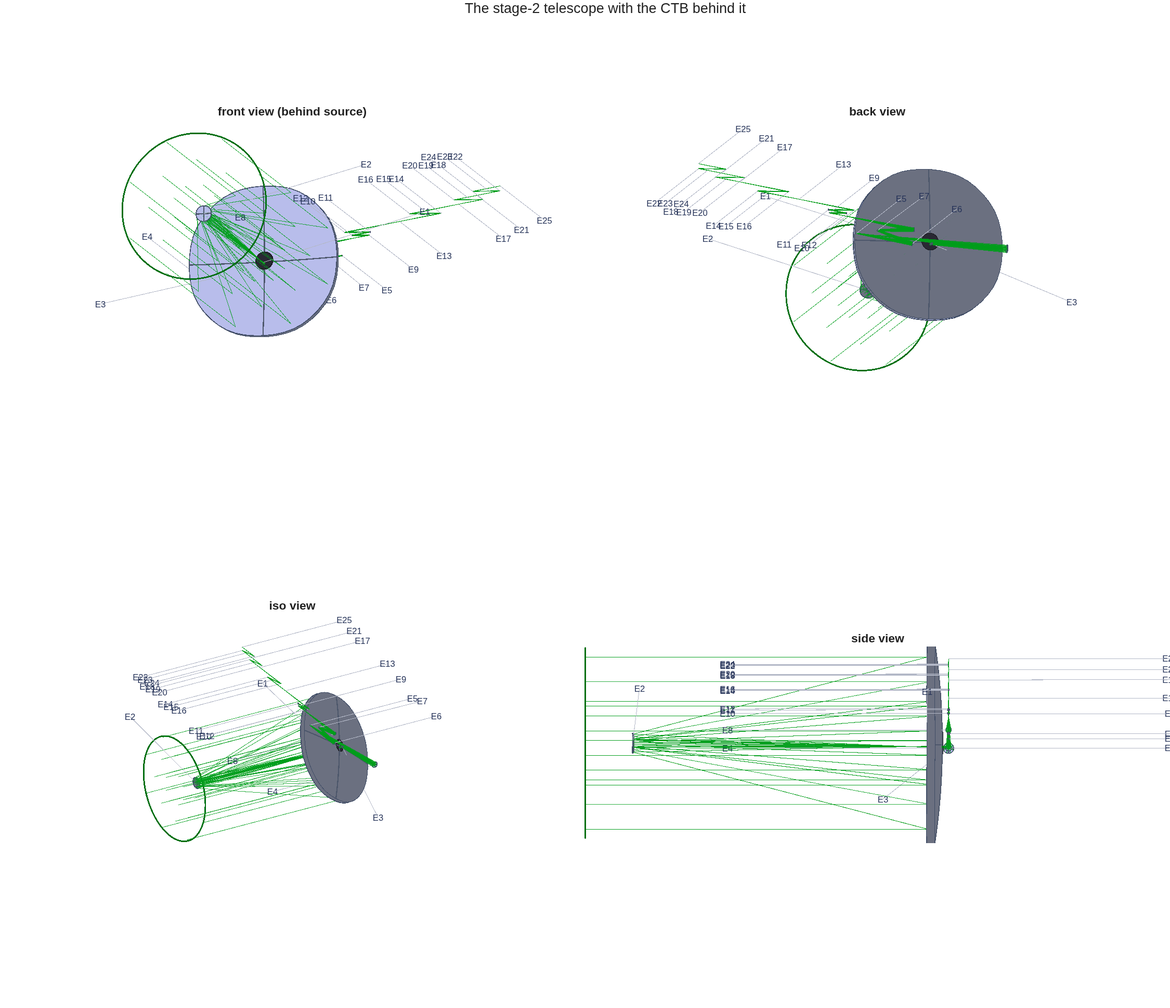
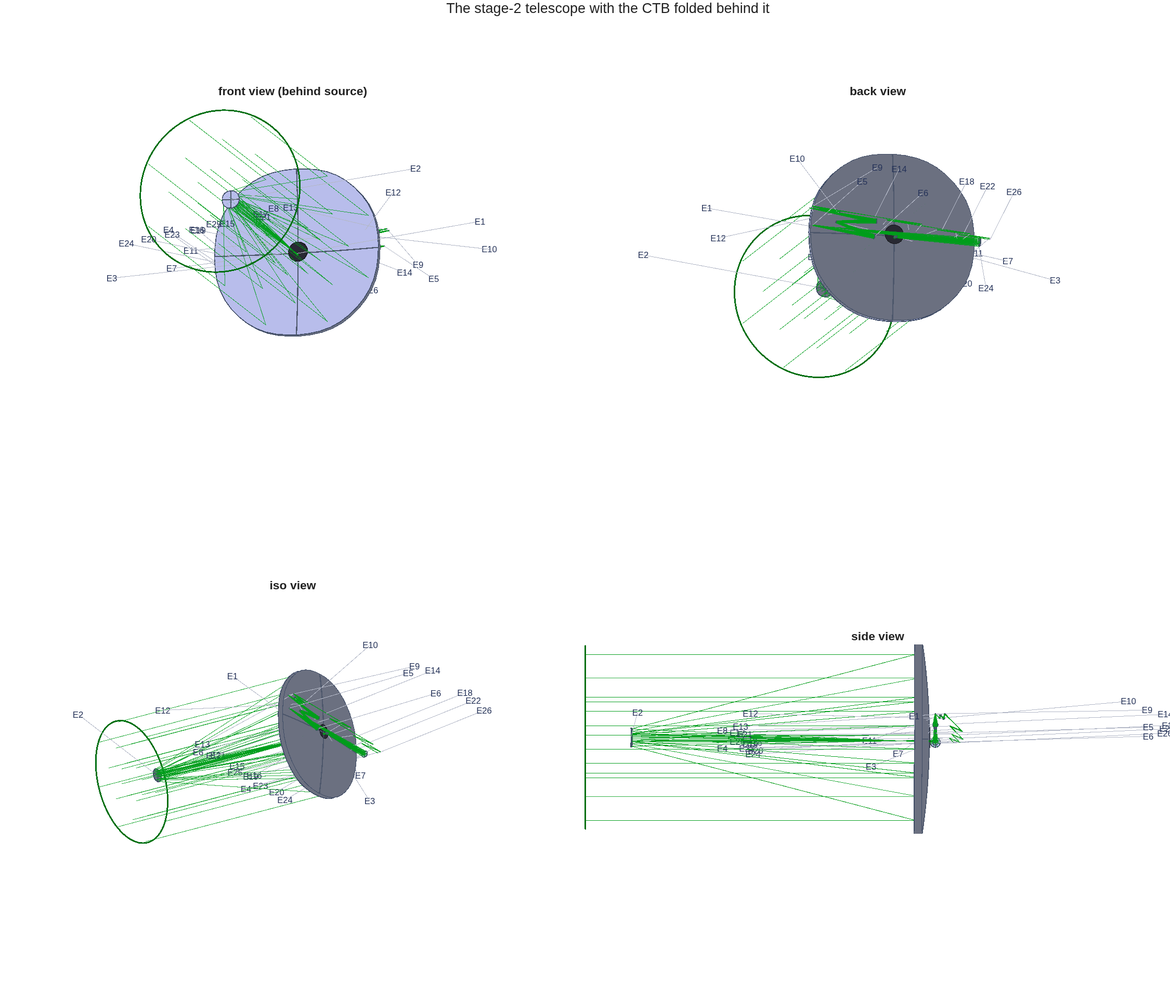
Draw the folded telescope-plus-CTB in the mmacos manual's chapter 2
The chapter-2 coronagraph driver (ch02b) now replays e2e stage 8's recorded
pick (e2e_params P.coro.pick) on the thread's stage-2 telescope through the
library's ctb_fold_build and ctb_fold_measure, after building the unfolded
case C by the same code and asserting it equals the chapter's hand build.
A new listing, ch02_ctb_fold, carries the fold's numbers, and seventeen new
pins feed the prose: the shroud margin, the two clearances, the walk and
wavefront deviations as bounds, the AOI maximum, the chain's height, the
train length, and the telescope's own fold flat on the exact measure.
FIGURE 5 is view_std of the folded train; FIGURE 6 is the folded bench in a
world-frame elevation (z up) beside the whole train in plan inside the
telescope's envelope.  The eighteen case-C pins are unchanged; make pdf
green, 129 pages.  PLAN_CONSOLIDATION 3a records it.

diff --git a/docs/mmacos-manual/tools/transcripts/ch02b_coronagraph.m b/docs/mmacos-manual/tools/transcripts/ch02b_coronagraph.m
@@ -5,6 +5,9 @@
 % example_ctb.m's PARAMETER BLOCK and its rot_axis fold helper are TAKEN from the template file at run
 % time (the template is unchanged); one number differs from it, OAP1's focal length (f/# x the CTB's
 % DM pupil diameter), and one spacing, OAP1 -> DM1 (the telescope stop's image, measured here).
+% The figures draw the FOLDED instrument: e2e stage 8's recorded pick (e2e_params P.coro.pick,
+% PLAN_CONSOLIDATION 3a, CCL 2026-10-29) replayed on this thread's telescope by the library's
+% ctb_fold_build / ctb_fold_measure, and the unfolded case C by the same code for the comparison.
 % Products land in the scratch directory (MMMAN_WORK); the thread is read, never written.
 
 root = getenv('MMACOS_ROOT');  work = getenv('MMMAN_WORK');  thread = getenv('MMMAN_THREAD');
@@ -83,15 +86,49 @@ for j = 1:numel(ie)
 end
 macos.trace(nF);  W = macos.opd();  M = macos.opd_mask();
 wfe = std(W(M)) / (P.WAVLEN*mm);
-fvw = macos.view_std('title', 'The stage-2 telescope with the CTB behind it');
-print(fvw, fullfile(work, 'ctb_coupled_view.png'), '-dpng', '-r150');  close(fvw);
-macos.init(256);  macos.load_rx(fullfile(work, 'ctb_C.in'));    % the bench alone, fed at the telescope focus
-fvb = macos.view_std('title', 'The CTB alone, case C');
-print(fvb, fullfile(work, 'ctb_bench_view.png'), '-dpng', '-r150');  close(fvb);
 
 % ---- the pupil walk across the coronagraph's field ---------------------------------------------
 RS = [EDGE_LD*ld 0.5 1 3 10 30 60];                            % ring radii, arcsec
 wk = walk_(fileread(fc), dB, L0, RS, [ic.DM1 ic.DM2], work);
+
+% ---- the fold: e2e stage 8's recorded pick, replayed on this thread's telescope -----------------
+% The same chain by the library's builder (ctb_fold_build: example_ctb's block via
+% ctb_template_params), unfolded first as a check against the hand build above, then folded by the
+% stage's pick.  The measure is the stage's (ctb_fold_measure: rays, wavefront, AOI, the walk on the
+% ring, deck_clearance over the coronagraph's own field, the hardware union about the launch axis).
+addpath(fullfile(root, 'templates', '80_end_to_end', 'e2e'));   % e2e_params: P.coro (the pick), the hole
+PE = e2e_params();  Q = PE.coro;  rp = Q.pick;
+holes = struct('M1', max(PE.hole_min_r_m, 0.232));           % the primary's through-hole: a crossing inside it is the design
+Pc = ctb_template_params();
+Kc = struct('dm1_m', LDM1, 'fno', fno, 'sign0', -1, 'model', 256);   % case C in the chapter's zigzag (first turn -)
+Rc = ctb_fold_build(tel, fullfile(work, 'libC'), Pc, Kc);
+Mc = ctb_fold_measure(Rc, 'holes', holes, 'leg_from', 3, 'ring_as', Q.ring_as, 'clear_as', Q.clear_as, 'quiet', true);
+assert(Mc.rays(end) == npF && abs(Mc.wfe_waves - wfe) < 1e-6, 'ch02b: the library''s case C is not the hand build''s');
+Kp = struct('fold0_m', rp.fold_m, 'fold0_tilt_deg', rp.tilt_deg, 'plane_deg', Q.plane_deg, 'sign0', rp.sign, ...
+            'flip_at', rp.flip_at, 'relay_scale', rp.scale, 'dm1_m', LDM1, 'fno', fno, 'model', 256);
+Rf = ctb_fold_build(tel, fullfile(work, 'fold'), Pc, Kp);
+Mf = ctb_fold_measure(Rf, 'holes', holes, 'leg_from', 3, 'ring_as', Q.ring_as, 'clear_as', Q.clear_as, 'quiet', true);
+sh = shroud_deck(tel, struct('shroud_D_m', 0, 'model', 256), 'model', 256);   % the telescope's own hardware union
+Rgate = sh.D/2 + Q.shroud_grow_m;
+margin = Rgate - Mf.shroud.ctb_max_r;
+zc = [Mf.clear.bodies([Mf.clear.bodies.elt] > Rf.n_base).z];
+wdev = Mf.walk.dm2_m/Mc.walk.dm2_m - 1;
+e = @(nm) Rf.ix.(nm) - Rf.n_base;                               % element numbers in the bench alone
+
+% the figures: the folded train (view_std) and the folded bench in world views
+macos.init(256);  macos.load_rx(Rf.full_in);
+fvw = macos.view_std('title', 'The stage-2 telescope with the CTB folded behind it', 'visible', false);
+print(fvw, fullfile(work, 'ctb_coupled_view.png'), '-dpng', '-r150');  close(fvw);
+fvb = figure('Visible', 'off', 'Position', [100 100 1600 640], 'Color', 'w');
+ax1 = subplot(1, 2, 1);  macos.load_rx(Rf.bench_in);
+macos.view_rx('ax', ax1, 'view', [0 0], 'title', 'the folded CTB alone: elevation, z up (the primary''s vertex at z = 0)');
+xlabel(ax1, 'x  [m]');  zlabel(ax1, 'z  [m]');
+ax2 = subplot(1, 2, 2);  macos.load_rx(Rf.full_in);
+macos.view_rx('ax', ax2, 'view', [0 90], 'title', sprintf('plan, looking down z: inside the %.1f m envelope (dashed)', 2*Rgate));
+hold(ax2, 'on');  tq = linspace(0, 2*pi, 361);
+plot3(ax2, Rgate*cos(tq), Rgate*sin(tq), zeros(size(tq)), 'k--', 'LineWidth', 1.2);
+xlim(ax2, 1.1*Rgate*[-1 1]);  ylim(ax2, 1.1*Rgate*[-1 1]);  xlabel(ax2, 'x  [m]');  ylabel(ax2, 'y  [m]');
+print(fvb, fullfile(work, 'ctb_bench_view.png'), '-dpng', '-r150');  close(fvb);
 
 % ---- the listing ---------------------------------------------------------------------------
 t = strings(0);
@@ -116,6 +153,25 @@ for k = 1:numel(RS)
         wk.nmin(k,2), wk.nmax(k,2), wk.fmin(k), wk.fmax(k)); %#ok<AGROW>
 end
 mm_transcript('ch02_ctb_run', strjoin(t, newline));
+
+t = strings(0);
+t(end+1) = "the fold: e2e stage 8's pick (e2e_params P.coro.pick) on this telescope, by ctb_fold_build / ctb_fold_measure";
+t(end+1) = sprintf('   F0, a flat %.2f m before the focus, deviation %g deg (AOI %.1f) out of the bench plane toward +z;', rp.fold_m, rp.tilt_deg, rp.tilt_deg/2);
+t(end+1) = sprintf('   the accordion''s plane %g deg from the bench plane, first turn %+d, the pattern inverted after turn %d; relay scale %.2f', Q.plane_deg, rp.sign, rp.flip_at, rp.scale);
+t(end+1) = sprintf('   unfolded (case C, the library''s build): CTB bodies to r = %.3f m; DM2 walk at %g" %.3f mm', Mc.shroud.ctb_max_r, Q.ring_as, Mc.walk.dm2_m*1e3);
+for j = 1:numel(Mf.stations)
+    t(end+1) = sprintf('   %-5s %4d of %4d rays, beam radius %6.2f mm', Mf.stations{j}, Mf.rays(j), Mf.nrays, Mf.beam_r(j)*1e3); %#ok<AGROW>
+end
+t(end+1) = sprintf('   FPA rms wavefront %.4f waves (unfolded %.4f); lambda/D at the FPM %.1f um (unfolded %.1f)', Mf.wfe_waves, Mc.wfe_waves, Rf.lamD_fpm_um, Rc.lamD_fpm_um);
+a = "   AOI (deg):";  for k = 1:numel(Mf.aoi), a = a + sprintf(' %s %.1f', Mf.aoi(k).name, Mf.aoi(k).aoi_deg); end;  t(end+1) = a;
+t(end+1) = sprintf('   walk at %g": DM2 %.3f mm (unfolded %.3f, %+.2f %%); rays DM2 %d..%d, FPA %d..%d', Q.ring_as, Mf.walk.dm2_m*1e3, Mc.walk.dm2_m*1e3, 100*wdev, Mf.walk.rays_dm2, Mf.walk.rays_fpa);
+t(end+1) = sprintf('   envelope: the telescope''s own hardware union %.3f m = %.2f x D, gate radius %.3f m; CTB bodies to r = %.3f m, margin %+.3f m', sh.D, sh.D/Dtel, Rgate, Mf.shroud.ctb_max_r, margin);
+t(end+1) = sprintf('   train %.3f m (the telescope alone %.3f); CTB bodies from z = %.3f to %.3f m behind the primary''s vertex (the bench at %.2f)', Mf.shroud.len, sh.len, Mf.zmin_ctb, max(zc), Q.z_floor_m);
+t(end+1) = sprintf('   clearance (mm, signed): CTB vs telescope %+.1f (leg from %s vs %s); within the CTB %+.1f (%s vs %s), bodies and legs over the %g" field;', ...
+                   Mf.clear.min*1e3, Mf.clear.worst.leg_name, Mf.clear.worst.body_name, Mf.clear.min_addon*1e3, Mf.clear.worst_addon.leg_name, Mf.clear.worst_addon.body_name, Q.clear_as);
+t(end+1) = sprintf('   the telescope''s own worst pair %+.1f (%s vs %s), as built', Mf.clear.min_base*1e3, Mf.clear.worst_base.leg_name, Mf.clear.worst_base.body_name);
+t(end+1) = sprintf('   in the bench alone: E%d F0, E%d OAP1, E%d DM1, E%d DM2, E%d FPM, E%d Lyot, E%d FPA', e('F0'), e('OAP1'), e('DM1'), e('DM2'), e('FPM'), e('Lyot'), e('FPA'));
+mm_transcript('ch02_ctb_fold', strjoin(t, newline));
 mm_figure('ch02_ctb_view', fullfile(work, 'ctb_coupled_view.png'));
 mm_figure('ch02_ctb_bench', fullfile(work, 'ctb_bench_view.png'));
 
@@ -137,6 +193,23 @@ mm_pin('ch02_ctb_w1_edge', wk.walk(1,1)*1e3,   'sig5', sprintf('%.3f mm', wk.wal
 mm_pin('ch02_ctb_w2_10',   wk.walk(5,2)/rpup,  'sig5', sprintf('%.0f%%', 100*wk.walk(5,2)/rpup));
 mm_pin('ch02_ctb_mag',     Dtel/Dpup,  'sig5', sprintf('%.0f', Dtel/Dpup));
 mm_pin('ch02_ctb_np1',     np1,        'sig5', sprintf('%d', np1));
+mm_pin('ch02_fold_reach',  Mc.shroud.ctb_max_r, 'sig5', sprintf('%.1f m', Mc.shroud.ctb_max_r));
+mm_pin('ch02_fold_gate',   2*Rgate,    'sig5', sprintf('%.1f m', 2*Rgate));
+mm_pin('ch02_fold_f0_m',   rp.fold_m,  'sig5', sprintf('%.2f m', rp.fold_m));
+mm_pin('ch02_fold_f0_aoi', rp.tilt_deg/2, 'sig5', sprintf('%.0f°', rp.tilt_deg/2));
+mm_pin('ch02_fold_rays',   Mf.rays(end), 'sig5', sprintf('%d', Mf.rays(end)));
+mm_pin('ch02_fold_wfe',    Mf.wfe_waves, 'sig5', sprintf('%.4f waves', Mf.wfe_waves));
+mm_pin('ch02_fold_wfe_dev', Mf.wfe_waves - Mc.wfe_waves, sprintf('abs:%g', Q.wfe_tol_waves), sprintf('< %g waves', Q.wfe_tol_waves));
+mm_pin('ch02_fold_walk10', Mf.walk.dm2_m*1e3, 'sig5', sprintf('%.2f mm', Mf.walk.dm2_m*1e3));
+mm_pin('ch02_fold_walk_dev', wdev,     'abs:0.01', '< 1 %');
+mm_pin('ch02_fold_aoi_max', max([Mf.aoi.aoi_deg]), 'sig5', sprintf('%.0f°', max([Mf.aoi.aoi_deg])));
+mm_pin('ch02_fold_zmax',   max(zc),    'sig5', sprintf('%.2f m', max(zc)));
+mm_pin('ch02_fold_margin', margin,     'sig5', sprintf('%.3f m', margin));
+mm_pin('ch02_fold_clear',  Mf.clear.min*1e3, 'sig5', sprintf('%.0f mm', Mf.clear.min*1e3));
+mm_pin('ch02_fold_own',    Mf.clear.min_addon*1e3, 'sig5', sprintf('%.0f mm', Mf.clear.min_addon*1e3));
+mm_pin('ch02_fold_fm',     Mf.clear.min_base*1e3, 'sig5', sprintf('%.0f mm', Mf.clear.min_base*1e3));
+mm_pin('ch02_fold_len',    Mf.shroud.len, 'sig5', sprintf('%.2f m', Mf.shroud.len));
+mm_pin('ch02_fold_tel_len', sh.len,    'sig5', sprintf('%.2f m', sh.len));
 
 % =================================================================================================
 function [full_in, ix] = bench_(P, f1, LDM1, pF, dF, fno, nd, tel, work, tag)

diff --git a/PLAN_CONSOLIDATION.md b/PLAN_CONSOLIDATION.md
@@ -274,7 +274,7 @@ this plan); Dave rules the open questions below and signs off each phase.
 - **The coupled telescope+CTB diffraction model (Dave 2026-10-28, from the manual's Section 8 open questions): AFTER the fold** below; the manual refers to the CTB bench example meanwhile.
 - **A pairwise-probing estimator (Dave 2026-10-28, yes):** DM probe pairs, pairwise image differences, the electric-field estimate scored against the true field the model gives; **order RULED (Dave 2026-10-28): the estimator on the CTB first; then the fold; then the coupled telescope+CTB diffraction model; then pairwise probing on the coupled system.**  **CTB leg DONE (TO, 2026-10-28, local):** `bench_ctb/ctb_probe_estimate.m` + `ctb_probe_solve.m`, `ctb_efc('sensing', ...)` (default 'true', every pin unchanged), `tests/tCtbProbe.m` (5 tests, red before, in SUITE_CTB_512), manual Section 8 ch08d (FIGURES 24-27; Part II now 28-58).  Measured on the re-pinned decks: default probes 9.25 nm peak, floor 4.35e-10 / 3.9 % of the field at contrast 2.934e-7, ratios 1.011-1.013; small probes 1.3 % (the Jacobian's bias, (eeee)), 1.6e-4 with central differences; photons 1e10/1e8/1e6 -> floor 4.6e-10/4.1e-9/3.7e-7; EFC 10 iterations: perfect 8.78e-9, noiseless estimate 8.90e-9, 1e8 photons 9.15e-9.  Found on the way: three x-oriented probes leave the pixels within 1/2 lambda/D of the y axis singular (condition 1e7) -- alternate probes turned 90 degrees (condition 9).
 - **Why the better Jacobian digs less (Dave 2026-10-29, from 1.2 (eeee)):** on the shipped hard occulter (N=512, 3-15 lambda/D) `ctb_efc` on the central-difference Jacobian reaches 8.296e-9 in 24 iterations where the one-sided Jacobian reached 8.060e-9 in 19 (ch08b); the ten-iteration runs of ch08d move the same way (+2.1 to +2.4 %).  The gap opens at iteration 1 (1.001e-7 against 9.56e-8) and holds; the central run flattens at 8.297e-9 from iteration 18 and crawls at alpha 1e-2 until no alpha improves.  Not measured; the working reading is that the floor is set by the fixed-G error (G measured at flat DMs, used at about 10 nm rms stroke) and by the alpha line search's decade grid (1e-4 / 1e-3 / 1e-2), both larger than the 1.2-1.5 % poke bias, so a 1 % change in the columns (s_max 1002 -> 999.5) moves where the loop settles by a few percent either way.  The tests, cheapest first, each a few minutes on the cached N512 Jacobians: (1) EFC on the central G scaled by 1.013 -- if most of the gap closes, it is regularization sensitivity, not Jacobian accuracy; (2) both Jacobians on a finer alpha grid (sqrt(10) steps) -- if they meet, the grid made the gap; (3) predicted against achieved field change per step for both (the diagnosis battery's correlation) -- which models the finite steps better; (4) a Jacobian re-measured at the dug state (26 min) -- the README's next depth lever, and the test of what sets the floor.  Report the four numbers; no pin moves unless the shipped method changes.
-- **Fold the CTB coronagraph to fit the shroud (Dave 2026-10-28, from the mmacos manual ch. 2 case C):** the case-C feed (OAP1 f = 0.3819 m, DM1 at the stop image 465.1 mm, DM2 at 965.1 mm, the anamorphic exit beam) is laid out unfolded; the realized instrument has to fold into the telescope shroud, under the standing design drivers (AOI < 15 deg at every fold, shroud fit as a numeric clearance gate, relay = small).  Chapter 2 presents the unfolded case C and states the fold as future work; the fold is its own beat after the manual (add_fold on the case-C layout, a clearance gate with its margin as a number, the dark-zone and DM-walk numbers re-measured after the fold).  **DONE 2026-10-29 (CCL, resources LOCAL): `templates/80_end_to_end/e2e/s8_coronagraph.m`, the thread's stage 8.**  Case C unfolded reaches r = 6.66 m against the telescope's own 2.50 m envelope (shroud_deck: 1.25 x D, the imager's detector at the rim).  The volume behind the instrument bench (z > 0.3 m, inside 2.5 m) holds no telescope beam, so the fold is ONE near-normal flat on the converging feed (F0, 0.30 m before the focus, 8 deg of deviation = AOI 4) that lifts the chain and turns it back across the aperture, the CTB's own accordion run in the vertical plane with its turn pattern inverted once after DM2 (the drift reverses: the chain climbs to 0.90 m and stays there), every OAP and DM at the template's 5 deg, relay scale 1 (the finder tries 0.75 and 0.5 only if 1 fails; it did not).  Gates, each a number (s8_report.txt): rays 1180 = unfolded; FPA 0.00813 waves = unfolded; DM2 walk at 10" 4.691 vs 4.716 mm (0.5 %: the accordion's plane rotates each OAP's off-axis direction against the anamorphic beam -- a flat fold is an isometry, the plane change is not); largest AOI 5.0; shroud margin +0.235 m (CTB bodies to r = 2.265); clearance CTB-vs-telescope +160 mm (leg M7->F0 vs M6), within the CTB +31 mm (FieldStop->OAP7 leg vs the Backend marker, bodies sized over a 1" field); lowest CTB body at the bench plane (z 0.300; Dave's 0.6 m keep-out behind the PM is reported as -0.30, the e2e bench itself sits at fold_frac x D = 0.3).  Train length 6.58 -> 7.19 m.  The telescope's own worst pair, M3->M4 vs its fold flat FM, is -26 mm on the exact measure (the e2e's 1.15x fold margin was judged at beam centres): a pre-existing e2e finding, reported, not gated.  Tools: `design/src/deck_clearance.m` (exact signed leg-to-body clearance of a SPLICED deck, bodies = footprint discs over a field set + mount, the primary's hole as the design, base / add-on / cross tables), `ctb_fold_build.m` (the case-C chain with the fold knobs), `ctb_fold_measure.m`, `ctb_stop_image.m`, `ctb_template_params.m`; gate `tests/tE2eCoroFold.m` (size-256 group: the isometry, the rules, a planted body reads negative, the relay scale moves lambda/D).  NOT measured: the dark zone -- the coupled diffraction model is the next beat, and it carries the fold's geometry (relay scale 1, so the masks' lambda/D is the template's 31.6 um).  The manual's chapter 2 points at the stage (one paragraph, rebuilt with the next regeneration).
+- **Fold the CTB coronagraph to fit the shroud (Dave 2026-10-28, from the mmacos manual ch. 2 case C):** the case-C feed (OAP1 f = 0.3819 m, DM1 at the stop image 465.1 mm, DM2 at 965.1 mm, the anamorphic exit beam) is laid out unfolded; the realized instrument has to fold into the telescope shroud, under the standing design drivers (AOI < 15 deg at every fold, shroud fit as a numeric clearance gate, relay = small).  Chapter 2 presents the unfolded case C and states the fold as future work; the fold is its own beat after the manual (add_fold on the case-C layout, a clearance gate with its margin as a number, the dark-zone and DM-walk numbers re-measured after the fold).  **DONE 2026-10-29 (CCL, resources LOCAL): `templates/80_end_to_end/e2e/s8_coronagraph.m`, the thread's stage 8.**  Case C unfolded reaches r = 6.66 m against the telescope's own 2.50 m envelope (shroud_deck: 1.25 x D, the imager's detector at the rim).  The volume behind the instrument bench (z > 0.3 m, inside 2.5 m) holds no telescope beam, so the fold is ONE near-normal flat on the converging feed (F0, 0.30 m before the focus, 8 deg of deviation = AOI 4) that lifts the chain and turns it back across the aperture, the CTB's own accordion run in the vertical plane with its turn pattern inverted once after DM2 (the drift reverses: the chain climbs to 0.90 m and stays there), every OAP and DM at the template's 5 deg, relay scale 1 (the finder tries 0.75 and 0.5 only if 1 fails; it did not).  Gates, each a number (s8_report.txt): rays 1180 = unfolded; FPA 0.00813 waves = unfolded; DM2 walk at 10" 4.691 vs 4.716 mm (0.5 %: the accordion's plane rotates each OAP's off-axis direction against the anamorphic beam -- a flat fold is an isometry, the plane change is not); largest AOI 5.0; shroud margin +0.235 m (CTB bodies to r = 2.265); clearance CTB-vs-telescope +160 mm (leg M7->F0 vs M6), within the CTB +31 mm (FieldStop->OAP7 leg vs the Backend marker, bodies sized over a 1" field); lowest CTB body at the bench plane (z 0.300; Dave's 0.6 m keep-out behind the PM is reported as -0.30, the e2e bench itself sits at fold_frac x D = 0.3).  Train length 6.58 -> 7.19 m.  The telescope's own worst pair, M3->M4 vs its fold flat FM, is -26 mm on the exact measure (the e2e's 1.15x fold margin was judged at beam centres): a pre-existing e2e finding, reported, not gated.  Tools: `design/src/deck_clearance.m` (exact signed leg-to-body clearance of a SPLICED deck, bodies = footprint discs over a field set + mount, the primary's hole as the design, base / add-on / cross tables), `ctb_fold_build.m` (the case-C chain with the fold knobs), `ctb_fold_measure.m`, `ctb_stop_image.m`, `ctb_template_params.m`; gate `tests/tE2eCoroFold.m` (size-256 group: the isometry, the rules, a planted body reads negative, the relay scale moves lambda/D).  NOT measured: the dark zone -- the coupled diffraction model is the next beat, and it carries the fold's geometry (relay scale 1, so the masks' lambda/D is the template's 31.6 um).  The manual's chapter 2 now DRAWS the folded instrument (Dave 2026-10-29): ch02b replays the pick on the thread's telescope by ctb_fold_build / ctb_fold_measure (listing ch02_ctb_fold, 17 new pins: margin 0.234 m, clearance 149 mm cross / 31 mm own, walk -0.69 %, FM -22 mm on that deck), FIGURE 5 = view_std of the folded train, FIGURE 6 = the bench in world elevation + the train in plan inside the envelope; the 18 case-C pins unchanged.
 - **The `W ~= 0` validity-mask sweep (Dave 2026-10-26, 1.2 (vvv)):** 32 library .m files after the e2e beat -- design/src first (`jacobian_check.m`, `focal_surface.m`), then e2e6m / e2e6m_r2, the 10_telescopes templates (their Part II pages repinned), the tg96 pupil code; `macos.opd_mask` in each, one gate per file, the number that moved named.  TO after the manual's repin.
 - **DONE 2026-10-27 (TO, resources 6556b85 + macos a94b0b76; the record is 1.2 (www) piston sweep).  The piston-free-columns sweep (Dave 2026-10-27, 1.2 (www)):** every consumer of a `per_field_dw*` harvest that assumes zero-mean columns, ranked by consequence, after the three consumers of the (www) beat -- including ch04's conditioning numbers; each with the chief-equals-mean test.  TO after the (www) beat.
 - **A new e2e error budget with all terms (Dave 2026-10-26, from the mmacos manual ch. 7):** the thread's budget today is the library's e5hex1 budget on a copy; the e2e system gets its own budget stage with every term (optics, alignment, actuators, sensing, metrology, control), the per-group chart printing every row ((jjj) class), and the manual's chapter 7 moves onto it.

diff --git a/docs/mmacos-manual/src/02_instruments.md b/docs/mmacos-manual/src/02_instruments.md
@@ -127,27 +127,44 @@ that field (the Lagrange invariant). The telescope keeps its arcminute field for
 instruments, each with a slightly offset field of view. The coronagraph takes an arcsecond sub-field
 about the field center that stage 2 adopted, %pin:ch02_ctb_bias% off axis.
 
+The walk table measures the chain unfolded, in the CTB's own zigzag, where it reaches
+%pin:ch02_fold_reach% from the telescope's axis against the %pin:ch02_fold_gate% the telescope itself
+needs. The realized instrument folds into that envelope. The thread's stage 8
+(`templates/80_end_to_end/e2e/s8_coronagraph.m`) searched the fold's knobs under the design drivers
+(every surface under 15° of incidence, a numeric clearance, a small relay) and recorded its pick in
+`e2e_params`; the figures draw that pick replayed on this telescope by the library's `ctb_fold_build`,
+and `ctb_fold_measure` gates it:
+
+<!-- transcript: ch02_ctb_fold -->
+
 ![](media/ch02_ctb_view.png)
 
-**FIGURE 5** The stage-2 telescope with the CTB behind it (`macos.view_std`). At this scale the CTB
-is the small zigzag behind the primary.
+**FIGURE 5** The stage-2 telescope with the CTB folded behind it (`macos.view_std`). At this scale
+the CTB is the small accordion behind the primary, standing up from the bench plane.
 
 ![](media/ch02_ctb_bench.png)
 
-**FIGURE 6** The CTB on its own, with OAP1 matched and DM1 at the stop's image, fed at the
-telescope's focus (`macos.view_std`): E1 OAP1, E2 DM1, E3 DM2, E9 the focal-plane mask, E11 the Lyot
-stop, E17 the detector.
+**FIGURE 6** The folded CTB (`macos.view_rx`). Left, the bench alone in elevation, z up and the
+primary's vertex at z = 0: E1 the added fold F0 on the converging feed, E2 OAP1, E3 DM1, E4 DM2, E10
+the focal-plane mask, E12 the Lyot stop, E18 the detector. Right, the whole train in plan, looking
+down z, inside the telescope's own %pin:ch02_fold_gate% envelope (dashed).
 
-The layout is drawn unfolded, in the CTB's own zigzag, and it reaches 6.7 m from the telescope's
-axis against the 2.5 m the telescope itself needs. The realized instrument folds into that envelope;
-the thread's stage 8 (`templates/80_end_to_end/e2e/s8_coronagraph.m`, after this manual) does it
-under the design drivers: one near-normal fold on the converging feed lifts the chain and turns it
-back across the aperture, the CTB's accordion runs in the vertical plane behind the instrument bench
-with its turn pattern inverted once so the chain climbs no higher than 0.9 m, every surface stays at
-5° or less, the relay is the template's. Each gate is a number in its report: 0.235 m inside the
-envelope, 160 mm from every telescope body and beam, the same rays and wavefront as the unfolded
-train, the DM walk within 0.5 %. The dark zone is measured on the coupled diffraction model, the
-step after the fold.
+One near-normal flat %pin:ch02_fold_f0_m% before the focus on the converging feed, at
+%pin:ch02_fold_f0_aoi% of incidence, lifts the chain and turns it back across the aperture. The CTB's
+accordion then runs in the vertical plane behind the instrument bench, with its turn pattern inverted
+once after DM2 so that the chain climbs to %pin:ch02_fold_zmax% behind the primary's vertex and then
+comes back down; every other surface stays at the template's %pin:ch02_fold_aoi_max%, and the relay is
+the template's. Each gate is a number. %pin:ch02_fold_rays% rays reach the detector, the same rays as
+the unfolded train, and the wavefront there is %pin:ch02_fold_wfe%, the difference from the unfolded one
+%pin:ch02_fold_wfe_dev%: a flat fold is an isometry. The DM2 walk at 10″ is %pin:ch02_fold_walk10%,
+%pin:ch02_fold_walk_dev% from the unfolded table's and not identical, because turning the accordion
+into the vertical plane rotates each OAP's off-axis direction against the telescope's anamorphic
+beam. The CTB's bodies stay %pin:ch02_fold_margin% inside the envelope, %pin:ch02_fold_clear% from
+every telescope body and beam and %pin:ch02_fold_own% from each other, the bodies sized over the
+coronagraph's 1″ field; the train grows from %pin:ch02_fold_tel_len% to %pin:ch02_fold_len%. The same
+measure puts the telescope's own fold flat %pin:ch02_fold_fm% inside its M3-to-M4 return, the body the
+stage-2 report flags without a number (below): a finding about the telescope as built, not about the
+fold. The dark zone is measured on the coupled diffraction model, the step after the fold.
 
 ### A bench on its own
 
@@ -221,7 +238,8 @@ pupil were both tried and both rejected.
 ### What to ask next
 
 - *"Why does the clearance check flag the fold flat, and by how much?"* --
-  `t.check_clipping` on the stage-2 design, the call the report makes.
+  `t.check_clipping` on the stage-2 design is the call the report makes; the number is
+  `deck_clearance`'s, %pin:ch02_fold_fm% on the exact leg-to-body measure (the fold listing above).
 - *"Center the science field lower, inside the ring."* -- `P.inst.field_dy_arcmin` with
   `field_center = "manual"`; the variants kept in `s2_variants/` are the two already solved.
 - *"Segment the primary."* -- Section 3.

diff --git a/docs/mmacos-manual/src/transcripts/ch02_ctb_fold.md b/docs/mmacos-manual/src/transcripts/ch02_ctb_fold.md
@@ -1,0 +1,17 @@
+    the fold: e2e stage 8's pick (e2e_params P.coro.pick) on this telescope, by ctb_fold_build / ctb_fold_measure
+       F0, a flat 0.30 m before the focus, deviation 8 deg (AOI 4.0) out of the bench plane toward +z;
+       the accordion's plane 90 deg from the bench plane, first turn +1, the pattern inverted after turn 4; relay scale 1.00
+       unfolded (case C, the library's build): CTB bodies to r = 6.701 m; DM2 walk at 10" 4.734 mm
+       OAP1  1168 of 1185 rays, beam radius  10.78 mm
+       DM1   1168 of 1185 rays, beam radius  10.78 mm
+       DM2   1168 of 1185 rays, beam radius  10.78 mm
+       Lyot  1168 of 1185 rays, beam radius   4.05 mm
+       FPA   1168 of 1185 rays, beam radius   0.01 mm
+       FPA rms wavefront 0.0102 waves (unfolded 0.0103); lambda/D at the FPM 31.6 um (unfolded 31.6)
+       AOI (deg): F0 4.0 OAP1 5.0 DM1 5.0 DM2 5.0 OAP2 5.0 OAP3 5.0 OAP4 5.0 OAP5 5.0 OAP6 5.0 OAP7 5.0 OAP8 5.0
+       walk at 10": DM2 4.701 mm (unfolded 4.734, -0.69 %); rays DM2 1168..1168, FPA 1168..1168
+       envelope: the telescope's own hardware union 4.997 m = 1.25 x D, gate radius 2.499 m; CTB bodies to r = 2.265 m, margin +0.234 m
+       train 7.185 m (the telescope alone 6.584); CTB bodies from z = 0.300 to 0.901 m behind the primary's vertex (the bench at 0.30)
+       clearance (mm, signed): CTB vs telescope +148.5 (leg from M7 vs M6); within the CTB +31.3 (FieldStop vs Backend), bodies and legs over the 1" field;
+       the telescope's own worst pair -22.0 (M3 vs FM), as built
+       in the bench alone: E1 F0, E2 OAP1, E3 DM1, E4 DM2, E10 FPM, E12 Lyot, E18 FPA
